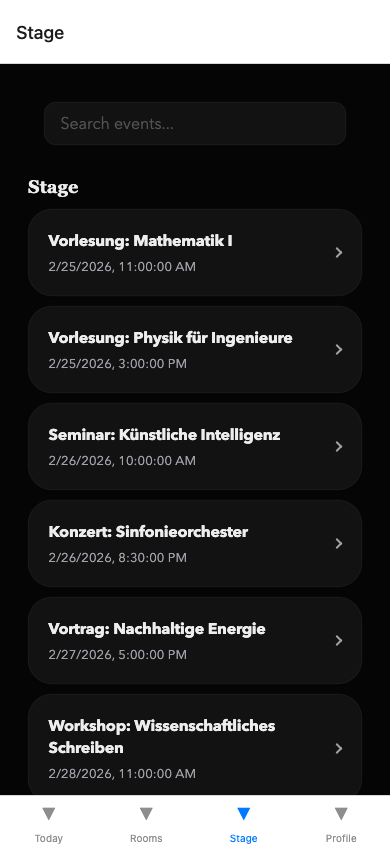
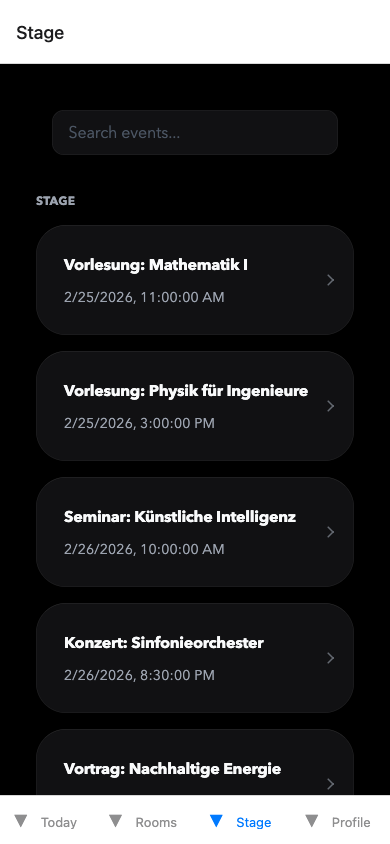
minor ui improvements

diff --git a/apps/mobile/src/ui/theme.ts b/apps/mobile/src/ui/theme.ts
@@ -41,38 +41,38 @@ export type ThemeUi = {
 
 // Light theme colors - Sophisticated, clean, airy 2026 aesthetic
 const lightColors: ThemeColors = {
-  background: "#fdfdfc",      // Crisp warm white
+  background: "#fcfcfc",      // Crisp super-warm white
   surface: "#ffffff",         // Pure white for elevated surfaces
-  text: "#1a1a1a",            // Softened jet black
-  muted: "#737373",           // Neutral balanced gray
-  accent: "#ea580c",          // Deeper, vibrant tactile orange
+  text: "#111113",            // Deep ink black
+  muted: "#6b7280",           // Refined cool gray
+  accent: "#4f46e5",          // Deep neon indigo/violet
   accentText: "#ffffff",      // Contrast for accent
-  border: "#efede8",          // Very faint warm gray border
-  error: "#dc2626",
-  success: "#16a34a",
-  warning: "#d97706",
-  info: "#2563eb",
-  overlay: "rgba(0, 0, 0, 0.25)", // Softer translucent overlay
-  disabled: "#a3a3a3",
-  placeholder: "#a3a3a3",
+  border: "rgba(0, 0, 0, 0.05)", // Ultra-subtle border
+  error: "#ef4444",
+  success: "#10b981",
+  warning: "#f59e0b",
+  info: "#3b82f6",
+  overlay: "rgba(0, 0, 0, 0.15)", // Softer translucent overlay
+  disabled: "#9ca3af",
+  placeholder: "#9ca3af",
 };
 
 // Dark theme colors - "Deep Space Glass" 2026 premium aesthetic
 const darkColors: ThemeColors = {
-  background: "#050505",      // Near OLED black
-  surface: "#121212",         // Elevated very dark gray, high quality
-  text: "#ededed",            // Crisp but not stark white
-  muted: "#a1a1aa",           // Cool visible gray
-  accent: "#f97316",          // Neonic vibrant orange
-  accentText: "#ffffff",      // For buttons with orange backgrounds
-  border: "#262626",          // Barely-there structural line
+  background: "#000000",      // Deep space OLED black
+  surface: "#111113",         // Very dark premium tint
+  text: "#f9fafb",            // Crisper off-white
+  muted: "#9ca3af",           // Visible gray
+  accent: "#818cf8",          // Neon vibrant indigo
+  accentText: "#000000",      // For buttons with bright backgrounds
+  border: "rgba(255, 255, 255, 0.08)", // Barely-there structural line
   error: "#f87171",
   success: "#4ade80",
   warning: "#fbbf24",
   info: "#60a5fa",
-  overlay: "rgba(0, 0, 0, 0.45)", // Tinted cinematic blur backdrop
-  disabled: "#525252",
-  placeholder: "#525252",
+  overlay: "rgba(0, 0, 0, 0.65)", // Deeper cinematic blur backdrop
+  disabled: "#4b5563",
+  placeholder: "#4b5563",
 };
 
 // High-contrast accessibility theme with larger visual affordances
@@ -100,7 +100,7 @@ const standardUi: ThemeUi = {
   borderWidth: 0.5,
   emphasisBorderWidth: 1.5,
   // Larger, softer curves matching Apple/Google 2026 fluid design guidelines
-  borderRadiusScale: 1.5, 
+  borderRadiusScale: 1.5,
 };
 
 const accessibilityUi: ThemeUi = {
@@ -159,54 +159,63 @@ const fontFamily = {
 
 export const typography = {
   heading: {
-    fontSize: 24,
+    fontSize: 28,
     fontWeight: "700" as const,
-    fontFamily: fontFamily.serif,
-    lineHeight: 32,
+    fontFamily: fontFamily.sans, // Switch to high-impact sans
+    lineHeight: 34,
+    letterSpacing: -0.5,
   },
   subheading: {
-    fontSize: 18,
-    fontWeight: "700" as const,
-    fontFamily: fontFamily.serif,
-    lineHeight: 24,
+    fontSize: 20,
+    fontWeight: "600" as const,
+    fontFamily: fontFamily.sans,
+    lineHeight: 28,
+    letterSpacing: -0.3,
   },
   body: {
     fontSize: 16,
     fontFamily: fontFamily.sans,
-    lineHeight: 22,
+    lineHeight: 24,
+    letterSpacing: -0.1,
   },
   caption: {
-    fontSize: 13,
+    fontSize: 14,
     fontFamily: fontFamily.sans,
-    lineHeight: 18,
+    lineHeight: 20,
+    letterSpacing: 0,
   },
   small: {
     fontSize: 12,
     fontFamily: fontFamily.sans,
     lineHeight: 16,
+    letterSpacing: 0.2, // Wide tracking for sub-labels
   },
   // Relative font sizes for accessibility scaling
   relative: {
     heading: {
-      fontSize: 24,
+      fontSize: 28,
       fontWeight: "700" as const,
-      fontFamily: fontFamily.serif,
+      fontFamily: fontFamily.sans,
+      letterSpacing: -0.5,
       allowFontScaling: true,
     },
     subheading: {
-      fontSize: 18,
-      fontWeight: "700" as const,
-      fontFamily: fontFamily.serif,
+      fontSize: 20,
+      fontWeight: "600" as const,
+      fontFamily: fontFamily.sans,
+      letterSpacing: -0.3,
       allowFontScaling: true,
     },
     body: {
       fontSize: 16,
       fontFamily: fontFamily.sans,
+      letterSpacing: -0.1,
       allowFontScaling: true,
     },
     caption: {
-      fontSize: 13,
+      fontSize: 14,
       fontFamily: fontFamily.sans,
+      letterSpacing: 0,
       allowFontScaling: true,
     },
   },
@@ -231,30 +240,30 @@ export const borderRadius = {
 export const shadows = {
   sm: {
     shadowColor: "#000",
-    shadowOffset: { width: 0, height: 1 },
-    shadowOpacity: 0.18,
-    shadowRadius: 1.0,
-    elevation: 1,
+    shadowOffset: { width: 0, height: 4 },
+    shadowOpacity: 0.03, // Ultra-airy ambient shadow
+    shadowRadius: 12,
+    elevation: 2,
   },
   md: {
     shadowColor: "#000",
-    shadowOffset: { width: 0, height: 2 },
-    shadowOpacity: 0.22,
-    shadowRadius: 2.22,
-    elevation: 3,
+    shadowOffset: { width: 0, height: 8 },
+    shadowOpacity: 0.05,
+    shadowRadius: 24,
+    elevation: 4,
   },
   lg: {
     shadowColor: "#000",
-    shadowOffset: { width: 0, height: 4 },
-    shadowOpacity: 0.3,
-    shadowRadius: 4.65,
-    elevation: 6,
+    shadowOffset: { width: 0, height: 16 },
+    shadowOpacity: 0.08,
+    shadowRadius: 36, // Huge radius for diffuse bleeding light effect
+    elevation: 8,
   },
   xl: {
     shadowColor: "#000",
-    shadowOffset: { width: 0, height: 8 },
-    shadowOpacity: 0.44,
-    shadowRadius: 10.32,
+    shadowOffset: { width: 0, height: 24 },
+    shadowOpacity: 0.12,
+    shadowRadius: 48,
     elevation: 12,
   },
 } as const;

diff --git a/apps/mobile/src/ui/Card.tsx b/apps/mobile/src/ui/Card.tsx
@@ -1,7 +1,7 @@
 import React from "react";
 import { StyleSheet, Text, View } from "react-native";
 import Animated, { FadeIn } from "react-native-reanimated";
-import { shadows, spacing, typography } from "./theme";
+import { shadows, spacing, typography, withOpacity } from "./theme";
 import { useTheme } from "./ThemeContext";
 
 export function Card({
@@ -14,31 +14,45 @@ export function Card({
   const theme = useTheme();
   const ui = theme.ui;
 
-  const cardRadius = Math.round(16 * ui.borderRadiusScale);
-  const cardPadding = Math.round(spacing.lg * ui.controlScale);
+  // 2026: More generous border radius for fluid aesthetics
+  const cardRadius = Math.round(20 * ui.borderRadiusScale);
+  // 2026: Extra padding for airy, editorial feel
+  const cardPadding = Math.round(spacing.xl * ui.controlScale);
   const titleFontSize = Math.round(typography.body.fontSize * ui.fontScale);
   const titleLineHeight = Math.round(typography.body.lineHeight * ui.fontScale);
   const subtitleFontSize = Math.round(typography.caption.fontSize * ui.fontScale);
   const subtitleLineHeight = Math.round(typography.caption.lineHeight * ui.fontScale);
 
-  const isDark = theme.colors.background === "#050505";
+  const isDark = theme.colors.background === "#000000";
 
   return (
     <Animated.View
-      entering={FadeIn.duration(400).delay(50)}
+      entering={FadeIn.duration(500).delay(50)} // Luxurious entrance fade
       style={[
         styles.card,
         isDark ? shadows.md : shadows.sm,
         {
           backgroundColor: theme.colors.surface,
-          borderColor: theme.colors.border,
-          borderWidth: ui.borderWidth,
           borderRadius: cardRadius,
           padding: cardPadding,
-          shadowColor: isDark ? "#000" : theme.colors.muted,
+          shadowColor: isDark ? "#000" : withOpacity(theme.colors.muted, 0.3),
         },
       ]}
     >
+      {/* 2026 Glass Edge Overlay - Adds a subtle premium inner highlight */}
+      <View
+        style={[
+          styles.glassEdge,
+          {
+            borderRadius: cardRadius,
+            borderColor: isDark ? theme.colors.border : "rgba(0,0,0,0.03)",
+            borderTopColor: isDark ? "rgba(255,255,255,0.12)" : "rgba(255,255,255,0.9)",
+            borderLeftColor: isDark ? "rgba(255,255,255,0.08)" : "rgba(255,255,255,0.6)",
+            borderWidth: ui.borderWidth,
+          }
+        ]}
+        pointerEvents="none"
+      />
       <Text
         selectable
         style={[
@@ -74,7 +88,15 @@ export function Card({
 const styles = StyleSheet.create({
   card: {
     borderCurve: "continuous",
-    overflow: "hidden", // Ensures content stays within continuous curve
+    position: "relative", // For glass edge constraint
+  },
+  glassEdge: {
+    position: "absolute",
+    top: 0,
+    left: 0,
+    right: 0,
+    bottom: 0,
+    borderCurve: "continuous",
   },
   title: {
     ...typography.body,
@@ -83,8 +105,8 @@ const styles = StyleSheet.create({
   },
   subtitle: {
     ...typography.caption,
-    marginTop: spacing.xs,
+    marginTop: spacing.sm, // Enhanced separation
     fontWeight: "400",
-    letterSpacing: 0.1,
+    letterSpacing: 0.2, // Wide tracking for sub-labels
   }
 });

diff --git a/apps/mobile/src/ui/ResourceListItem.tsx b/apps/mobile/src/ui/ResourceListItem.tsx
@@ -33,22 +33,25 @@ function ResourceListItemInner<T>({
   const label = accessibilityLabel(item);
   const theme = useTheme();
 
-  // Reanimated press scale effect for tactile feedback
-  const scale = useSharedValue(1);
+  // Reanimated press scale and opacity effect for hyper-responsive tactile feedback
+  const pressed = useSharedValue(0);
   const animatedStyle = useAnimatedStyle(() => ({
-    transform: [{ scale: scale.value }],
+    transform: [{ scale: 1 - pressed.value * 0.04 }],
+    opacity: 1 - pressed.value * 0.3,
   }));
 
   const handlePressIn = () => {
-    scale.value = withSpring(0.96, {
-      damping: 20,
-      stiffness: 300,
-      mass: 0.8
+    // Ultra-fast engagement
+    pressed.value = withSpring(1, {
+      damping: 15,
+      stiffness: 450,
+      mass: 0.5
     });
   };
 
   const handlePressOut = () => {
-    scale.value = withSpring(1, {
+    // Smooth, luxurious release
+    pressed.value = withSpring(0, {
       damping: 20,
       stiffness: 300,
       mass: 0.8
@@ -94,19 +97,20 @@ const styles = StyleSheet.create({
     width: 8,
     height: 14,
     justifyContent: "center",
+    opacity: 0.6, // 2026: Subdued iconography, letting typography shine
   },
   chevronLine: {
-    width: 2,
-    height: 8,
+    width: 1.5, // Thinner, precise
+    height: 8.5,
     borderRadius: 1,
     position: "absolute",
   },
   chevronTop: {
-    top: 1,
+    top: 0.5,
     transform: [{ rotate: "-45deg" }],
   },
   chevronBottom: {
-    bottom: 1,
+    bottom: 0.5,
     transform: [{ rotate: "45deg" }],
   },
 });

diff --git a/apps/mobile/src/ui/Section.tsx b/apps/mobile/src/ui/Section.tsx
@@ -14,15 +14,17 @@ export function Section({
   const ui = theme.ui;
 
   return (
-    <View style={[styles.section, { marginBottom: Math.round(spacing.lg * ui.controlScale) }]}>
+    <View style={[styles.section, { marginBottom: Math.round(spacing.xl * ui.controlScale) }]}>
       <Text
         style={[
           styles.title,
           {
-            color: theme.colors.text,
-            marginBottom: Math.round(spacing.sm * ui.controlScale),
-            fontSize: Math.round(typography.subheading.fontSize * ui.fontScale),
-            lineHeight: Math.round(typography.subheading.lineHeight * ui.fontScale),
+            color: theme.colors.muted,
+            marginBottom: Math.round(spacing.md * ui.controlScale),
+            fontSize: Math.round(typography.small.fontSize * ui.fontScale),
+            letterSpacing: typography.small.letterSpacing,
+            textTransform: "uppercase",
+            fontWeight: "700",
           },
         ]}
       >
@@ -36,9 +38,9 @@ export function Section({
 const styles = StyleSheet.create({
   section: {},
   title: {
-    ...typography.subheading,
+    ...typography.small,
   },
   body: {
-    gap: spacing.sm
+    gap: spacing.md
   }
 });

diff --git a/apps/mobile/src/ui/Screen.tsx b/apps/mobile/src/ui/Screen.tsx
@@ -32,9 +32,9 @@ export function Screen({
     />
   ) : undefined;
 
-  // Modernized looser padding for breathing room
-  const contentPadding = Math.round(spacing.xl * ui.controlScale);
-  const contentGap = Math.round(spacing.lg * ui.controlScale);
+  // 2026: Hyper-generous negative space for breathing room
+  const contentPadding = Math.round(spacing.xxl * ui.controlScale);
+  const contentGap = Math.round(spacing.xl * ui.controlScale);
 
   return (
     <View style={[styles.root, { backgroundColor: theme.colors.background }]}>
